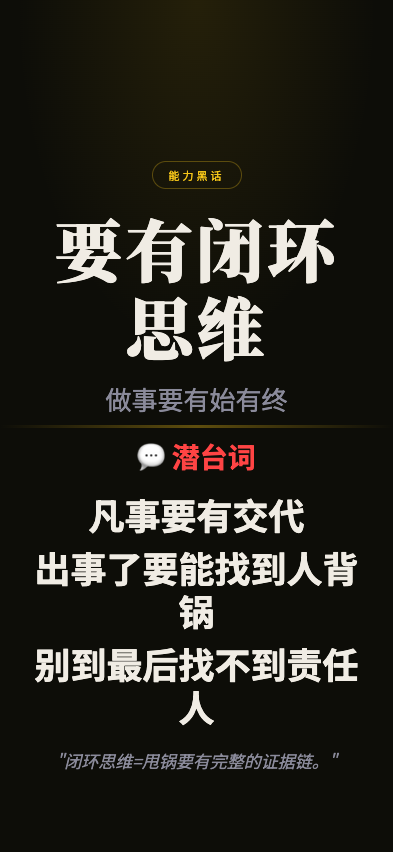
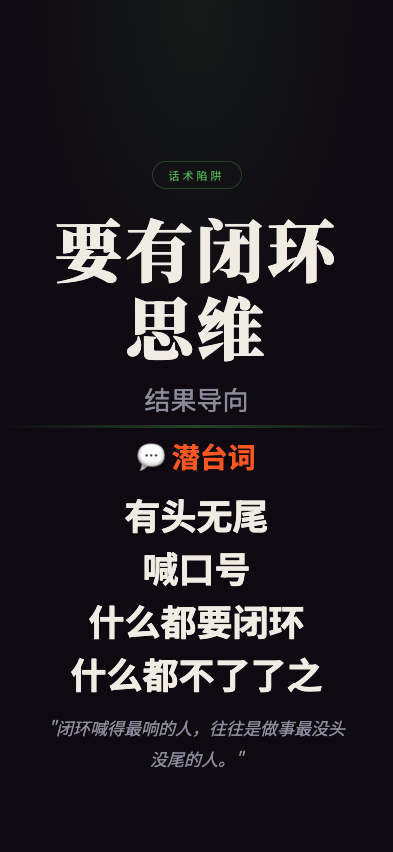
feat: 职场生存法则 screenshot - yaoyoubihuansiwei

Changed region(s): [[0.0916, 0.5798, 0.916, 0.9155], [0.2443, 0.4577, 0.7634, 0.5493], [0.4275, 0.1831, 0.5802, 0.2136]]

diff --git a/wuliao-tools/tools/biz-speak/scenes/yaoyoubihuansiwei.html b/wuliao-tools/tools/biz-speak/scenes/yaoyoubihuansiwei.html
@@ -7,11 +7,11 @@
 <link href="https://fonts.googleapis.com/css2?family=Noto+Serif+SC:wght@400;700;900&family=Noto+Sans+SC:wght@300;400;700&display=swap" rel="stylesheet">
 <style>
   :root {
-    --bg: #0d0d08;
+    --bg: #0f0a12;
     --text: #f0ece4;
     --text-dim: #8a8a9a;
-    --gold: #f5c518;
-    --red: #ff4444;
+    --gold: #4caf50;
+    --red: #ff5722;
   }
   * { margin:0; padding:0; box-sizing:border-box; }
   html, body { width:100%; height:100%; overflow:hidden; }
@@ -24,11 +24,11 @@
   }
   body::before {
     content:''; position:absolute; top:0; left:0; right:0; height:45%;
-    background:radial-gradient(ellipse at 50% 0%, rgba(245,197,24,0.1) 0%, transparent 65%);
+    background:radial-gradient(ellipse at 50% 0%, rgba(76,175,80,0.1) 0%, transparent 65%);
     pointer-events:none; z-index:0;
   }
   .top { flex:1; display:flex; flex-direction:column; align-items:center; justify-content:flex-end; padding:4px 28px 8px; position:relative; z-index:1; }
-  .tag { font-size:11px; letter-spacing:3px; color:var(--gold); border:1px solid rgba(245,197,24,0.3); padding:5px 16px; border-radius:50px; margin-bottom:20px; }
+  .tag { font-size:11px; letter-spacing:3px; color:var(--gold); border:1px solid rgba(76,175,80,0.3); padding:5px 16px; border-radius:50px; margin-bottom:20px; }
   .main-title { font-family:'Noto Serif SC'; font-size:68px; font-weight:900; text-align:center; line-height:1.15; letter-spacing:3px; min-width:0; overflow-wrap:break-word; max-width:92%; }
   .sub-title { font-size:26px; color:var(--text-dim); text-align:center; margin-top:14px; }
   .divider { width:100%; height:3px; background:linear-gradient(90deg,transparent,var(--gold),transparent); opacity:0.35; flex-shrink:0; position:relative; z-index:1; }
@@ -41,19 +41,20 @@
 </head>
 <body>
   <div class="top">
-    <div class="tag">能力黑话</div>
+    <div class="tag">话术陷阱</div>
     <div class="main-title">要有闭环思维</div>
-    <div class="sub-title">做事要有始有终</div>
+    <div class="sub-title">结果导向</div>
   </div>
   <div class="divider"></div>
   <div class="bottom">
     <div class="truth-label">💬 潜台词</div>
     <div class="truth-lines">
-      <div class="truth-line">凡事要有交代</div>
-      <div class="truth-line">出事了要能找到人背锅</div>
-      <div class="truth-line">别到最后找不到责任人</div>
+      <div class="truth-line">有头无尾</div>
+      <div class="truth-line">喊口号</div>
+      <div class="truth-line">什么都要闭环</div>
+      <div class="truth-line">什么都不了了之</div>
     </div>
-    <div class="quote">"闭环思维=甩锅要有完整的证据链。"</div>
+    <div class="quote">"闭环喊得最响的人，往往是做事最没头没尾的人。"</div>
   </div>
 </body>
 </html>
